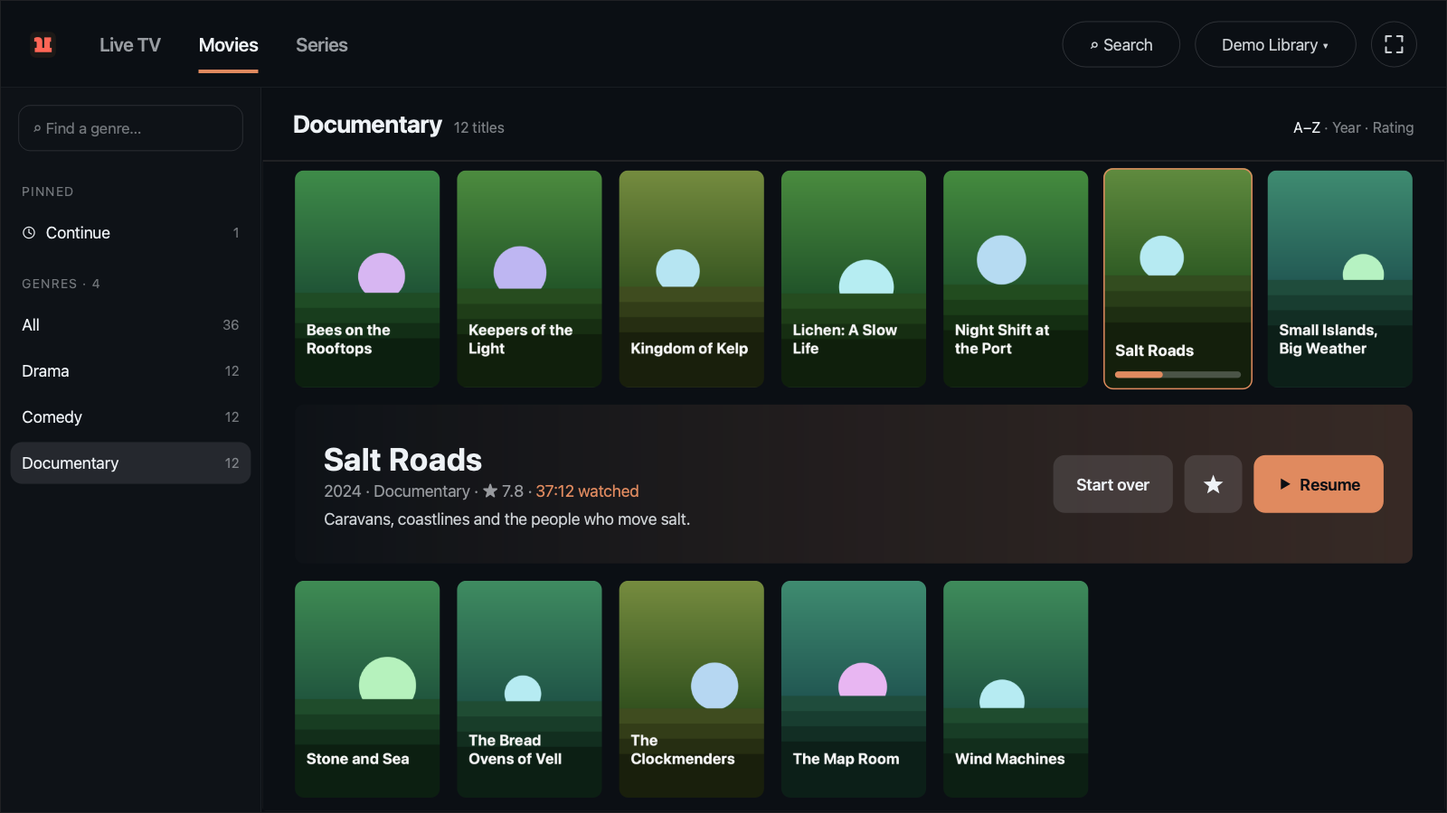
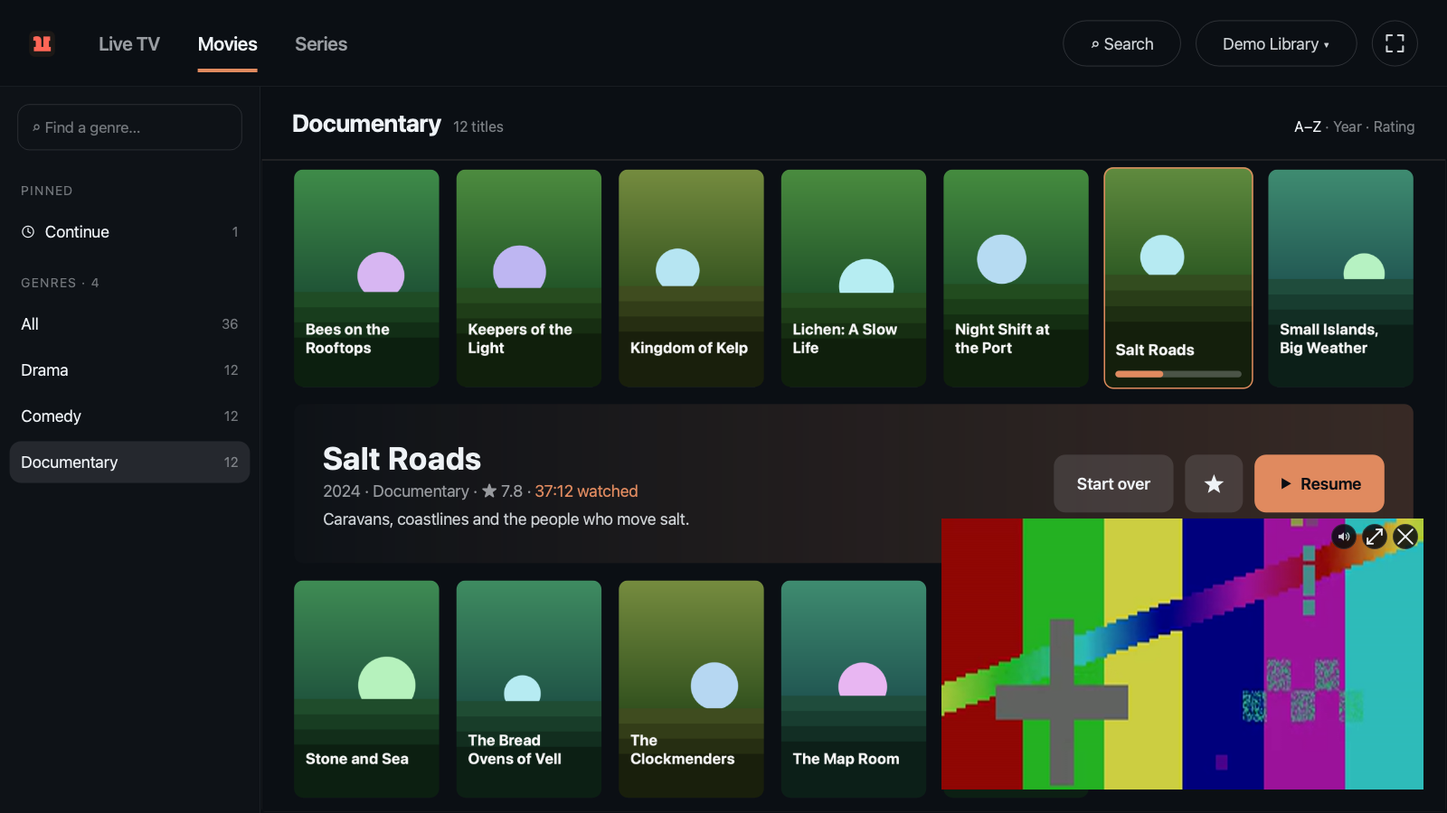
release: 2.1.0 (mixed providers, uninterrupted playback)
Version 2.1.0 in pyproject.toml and uv.lock (compare_versions offers it to
2.0.x). Release notes in docs/release-notes-2.1.0.md, with a placeholder
under New for the stay-live stages still to come. The README gains
"Several providers" and "Keep watching while you browse", the Library's
provider button, search hits from their own provider and stars per
provider; the key tables are unchanged.

The demo screenshots draw the video wherever the player page shows (the
corner player came out grey) and stop the corner player before the series
shot; only 05-library.png is re-taken, with the channel playing on in the
corner.

Claude-Session: https://claude.ai/code/session_012D1XAnsEcFSz5v4Ht19Zvk

diff --git a/scripts/make_demo_content.py b/scripts/make_demo_content.py
@@ -1082,7 +1082,8 @@ class Shooter:
 
     def capture(self, name: str) -> None:
         """The window's grab, each player's decoded picture where it shows, and the overlay
-        host's grab over them (as scripts/smoke_tv.py composes its screenshots)."""
+        host's grab over them (as scripts/smoke_tv.py composes its screenshots). The player
+        page shows full size, or in the Library's corner while what plays goes on there."""
         from PySide6.QtCore import QPoint, QRectF
         from PySide6.QtGui import QImage, QPainter
 
@@ -1094,7 +1095,7 @@ class Shooter:
         painter = QPainter(image)
         painter.setRenderHint(QPainter.RenderHint.SmoothPixmapTransform)
         painter.drawPixmap(0, 0, pixmap)
-        if not w.screens.library_shown():
+        if w.player_page.isVisible():
             for frame, target in self._video_layers():
                 painter.drawImage(QRectF(target), frame)
             host = w.host
@@ -1283,7 +1284,8 @@ class Shooter:
         self._key(K.Key_P)  # closes the small picture
         yield 1000
 
-        # 5. The Library on the demo library: a genre, the half-watched film's details.
+        # 5. The Library on the demo library: a genre, the half-watched film's details, and the
+        # channel playing on in the corner.
         w.controller.select_provider(LIBRARY_PROVIDER)
         yield from self._wait(
             lambda: w.catalog.current_provider_name() == LIBRARY_PROVIDER
@@ -1300,7 +1302,10 @@ class Shooter:
         yield SETTLE_MS
         yield from self._shoot(SHOT_LIBRARY)
 
-        # 6. The series, on its half-watched episode.
+        # 6. The series, on its half-watched episode, with the corner player stopped (×): it
+        # would cover the episodes' ✓ and Start over.
+        w.screens.stop_corner()
+        yield 500
         w.screens.open_library("series")
         yield from self._wait(lambda: bool(self._grid_items()), LOAD_TIMEOUT_MS, "the series")
         yield from self._pick_genre("21")

diff --git a/README.md b/README.md
@@ -4,7 +4,7 @@
 
 QiTV is a free TV player for IPTV. It plays M3U playlists (lists of channel links), Xtream accounts (a server address with a username and password) and STB portals (a set-top-box portal address and a MAC address), on Windows, macOS and Linux.
 
-Version 2.0 works like a TV: the channel fills the window, ↑ and ↓ change channels, and everything else (the channel list, the guide, the player controls) slides in over the picture and gets out of the way again. You can pause and rewind live TV, watch two channels at once, and browse movies and series in a Library with posters. It is written in Python with Qt and plays everything with VLC.
+Version 2.0 works like a TV: the channel fills the window, ↑ and ↓ change channels, and everything else (the channel list, the guide, the player controls) slides in over the picture and gets out of the way again. You can pause and rewind live TV, watch two channels at once, and browse movies and series in a Library with posters. Since 2.1, several providers mix in one channel list, one Library and one history, and what plays keeps playing in a corner while you browse. It is written in Python with Qt and plays everything with VLC.
 
 ![A live channel with the channel banner](docs/screenshots/01-live-banner.png)
 
@@ -48,7 +48,7 @@ This installs a desktop entry and icon so QiTV appears in your application menu.
 On a first start QiTV opens with a [publicly available playlist](https://github.com/iptv-org/iptv) of free channels from around the world, so you can try it straight away. To add your own provider:
 
 1. Press <kbd>Enter</kbd> (or click the picture) to open the channel list.
-2. Press <kbd>←</kbd> until you reach the left-most column, the list of your sources (or click your provider's name at the top of the list). At its bottom are **⚙ Settings**, **＋ Add provider**, **＋ Free channels…** (iptv-org's free playlist again, for all countries or one country) and **Open file** (a video file on your computer, as <kbd>Ctrl/⌘+O</kbd>).
+2. Press <kbd>←</kbd> until you reach the left-most column, the list of your sources (or click your provider's name at the top of the list). With two or more providers, **All providers** is at its top. At its bottom are **⚙ Settings**, **＋ Add provider**, **＋ Free channels…** (iptv-org's free playlist again, for all countries or one country) and **Open file** (a video file on your computer, as <kbd>Ctrl/⌘+O</kbd>).
 3. Choose **＋ Add provider**. Settings opens on the Providers tab with a new provider to fill in:
    - **M3U Playlist:** the playlist's web address, or **Load File** for a playlist on your computer;
    - **M3U Stream:** the address of a single stream;
@@ -56,9 +56,22 @@ On a first start QiTV opens with a [publicly available playlist](https://github.
    - **STB:** the portal address and your MAC address (serial number and device ID only if your provider asks for them).
 4. Press **Verify Provider** to check the details, then **Save**. QiTV loads the channels, and the Library loads the provider's movies and series.
 
-If you delete every provider, including the free playlist, QiTV shows a welcome card whose **Add provider** button does the same; its **Free channels…** button adds iptv-org's free list again, for all countries or one country. Settings is one click away too: the **⚙** at the right end of the channel list's top row (beside it, **↻** loads your provider's channels and guide again, also <kbd>Ctrl/⌘+R</kbd>, and **⌕** searches), or the menu bar (<kbd>Ctrl/⌘+,</kbd>). The same row starts with **‹**, which goes back a level like <kbd>←</kbd>, and the names of where you are: click one to go there. To switch between providers, click your provider's name in that row and pick another in the sources column, or use the **Providers** menu.
+If you delete every provider, including the free playlist, QiTV shows a welcome card whose **Add provider** button does the same; its **Free channels…** button adds iptv-org's free list again, for all countries or one country. Settings is one click away too: the **⚙** at the right end of the channel list's top row (beside it, **↻** loads your provider's channels and guide again, also <kbd>Ctrl/⌘+R</kbd>, and **⌕** searches), or the menu bar (<kbd>Ctrl/⌘+,</kbd>). The same row starts with **‹**, which goes back a level like <kbd>←</kbd>, and the names of where you are: click one to go there. To browse another provider, click your provider's name in that row and pick another in the sources column, or use the **Providers** menu. This only changes what the list shows: what plays keeps playing (see [Several providers](#several-providers)).
 
-QiTV keeps each provider's lists for six hours and refreshes them in the background, so they open at once. If your provider allows only one or two streams at a time, QiTV never opens more: set **Max simultaneous streams** in the provider's settings when QiTV cannot read the limit from the provider.
+QiTV keeps each provider's lists for six hours and refreshes them in the background, so they open at once. If your provider allows only one or two streams at a time, QiTV never opens more: set **Max simultaneous streams** in the provider's settings when QiTV cannot read the limit from the provider. The limit counts per provider.
+
+## Several providers
+
+With two or more providers, QiTV mixes them: every channel, film and series knows the provider it came from and always plays from there, whichever list you found it in.
+
+- **All providers.** The sources column (the channel list's left-most column) starts with **All providers**. It shows ★ Favorites, ⟲ Recent and All with every provider's channels together, each with its provider's name beside it, and then each provider's own groups under its name, named as that provider names them. Groups are never merged, even when two providers use the same name. Typed channel numbers find the first match, in the order of your providers in Settings.
+- **Browsing is only browsing.** Picking another provider, or All providers, only changes what the list shows: nothing that plays stops, picture-in-picture stays open, and <kbd>↑</kbd>/<kbd>↓</kbd> keep going through the list the channel was picked from. <kbd>Enter</kbd> (or a click on the picture) opens the list where the big picture's channel was picked: its provider, its group, its row.
+- **Two providers at once.** Watch a channel from one account and open one from another in picture-in-picture; swap them and change channels on either. Each provider's stream limit counts on its own, so two accounts that each allow one stream can each play one picture.
+- **One history.** ⟲ Recent lists the channels you watched at every provider, newest first, each with its provider's name. <kbd>Backspace</kbd> (the channel before) goes back across providers too, and **Start with the last channel** (Settings) tunes the last channel from its own provider.
+- **The guide** of a provider is loaded while its channels are on screen or playing, and let go afterwards, so All providers doesn't download every guide at once.
+- **One account's trouble stays with it.** A provider that can't sign in or refresh keeps its saved lists, and the other providers keep working.
+
+The channel list and the Library each remember the provider (or All providers) you browsed last, also after a restart. With a single provider there is no All providers row, and everything works as before.
 
 ## Watching TV
 
@@ -179,12 +192,12 @@ QiTV gently speeds playback up or down to stay there, only when the distance has
 Watch a second channel in a small picture in the bottom-right corner:
 
 - <kbd>P</kbd> (or the player controls' second-channel button) opens the channel you watched before, small; press <kbd>P</kbd> again to close it;
-- in the channel list, right-click a channel and choose **Open in picture-in-picture**, or highlight it and press <kbd>Ctrl/⌘+P</kbd>;
+- in the channel list, right-click a channel and choose **Open in picture-in-picture**, or highlight it and press <kbd>Ctrl/⌘+P</kbd>; the channel can come from any of your providers;
 - click the small picture or its **⇄**, or press <kbd>S</kbd>, to swap the two: the small one becomes big;
 - the sound follows the big picture. The speaker on the small picture turns its sound on or off. <kbd>+</kbd> and <kbd>-</kbd> (or the speaker in the player controls, beside ♪) show the mixer, which sets each picture's volume (<kbd>Tab</kbd> moves to the other row) and hides after a few seconds; without picture-in-picture it shows only the main volume;
 - the **×** on the small picture closes it.
 
-Picture-in-picture is for live TV, and it needs a provider that allows two streams at a time.
+Picture-in-picture is for live TV, and it needs two streams: a provider that allows two at a time, or one stream each from two providers. A film or an episode from the Library is the one exception: it takes the big picture and keeps the channel you were watching small (see [Keep watching while you browse](#keep-watching-while-you-browse)).
 
 ![Picture-in-picture with the volume mixer](docs/screenshots/08-pip.png)
 
@@ -198,22 +211,35 @@ The guide comes from your provider (STB and Xtream), or from a guide file or web
 
 ## The Library: movies and series
 
-<kbd>Ctrl/⌘+2</kbd> opens Movies and <kbd>Ctrl/⌘+3</kbd> Series (also from the channel list's sections). Opening the Library stops live TV; **Live TV** (or <kbd>Ctrl/⌘+1</kbd>) takes you back to the last channel. While a movie or an episode from the Library plays, **‹ Library** in the player controls (or <kbd>Esc</kbd>) takes you back to where you were in the Library. The **⛶** at the right end of its top bar switches fullscreen.
+<kbd>Ctrl/⌘+2</kbd> opens Movies and <kbd>Ctrl/⌘+3</kbd> Series (also from the channel list's sections). What you were watching keeps playing in a corner (see below); with nothing playing, **Live TV** (or <kbd>Ctrl/⌘+1</kbd>) takes you back to the last channel. While a movie or an episode from the Library plays, **‹ Library** in the player controls (or <kbd>Esc</kbd>) takes you back to where you were in the Library. The **⛶** at the right end of its top bar switches fullscreen.
 
 - **Genres** are on the left. Above them: **Continue** (what you started watching), **New** (the most recently added titles, when your provider says when it added them) and **My list** (titles you saved with ★ or <kbd>Ctrl/⌘+D</kbd>).
 - **Posters** fill the rest. The highlighted one opens a strip with its year, genre, rating and story, and **Resume**, **Start over** and ★.
 - **Sort** by recently added, A–Z, year or rating. In a long genre, type a letter (or use the A–Z letters on the right edge) to jump there.
-- **Search** (<kbd>Ctrl/⌘+F</kbd> or <kbd>/</kbd>) finds channels, movies and series in the lists QiTV has loaded from all your providers.
+- **Providers:** the button with your provider's name at the top right picks whose films and series the Library shows, or, with two or more providers, **All providers**: each provider's genres under its name, and Continue, New and My list mixing every provider (the strip then names a title's provider). This only changes what the Library shows, not the channel list or what plays.
+- **Search** (<kbd>Ctrl/⌘+F</kbd> or <kbd>/</kbd>) finds channels, movies and series in the lists QiTV has loaded from all your providers. A hit plays from its own provider, without switching provider first.
 
-![The Library: a genre's posters and a film's details](docs/screenshots/05-library.png)
+![The Library: a genre's posters and a film's details, with the channel playing on in the corner](docs/screenshots/05-library.png)
 
 A series opens on its seasons and episodes. Episodes you finished have a ✓, and started ones a progress bar with **Start over**. When an episode ends, the next one starts after a 10-second countdown, also across seasons (Settings → Auto-play).
 
 ![A series with its seasons and episodes](docs/screenshots/06-series.png)
 
+### Keep watching while you browse
+
+Opening the Library or the search (**⌕**, <kbd>Ctrl/⌘+F</kbd>) doesn't stop what plays. The TV shrinks into a corner of the Library, a third of the window wide, with picture-in-picture inside it when it is open, and goes on playing with its sound:
+
+- its buttons are at its top right: the speaker mutes it or turns the sound back on, **⤢** gives it the whole window back, and **×** stops it (the Library stays);
+- drag it to another corner if it is in the way; QiTV remembers the corner;
+- a click on it, **⤢**, **Live TV** (<kbd>Ctrl/⌘+1</kbd>) or <kbd>Esc</kbd> from the genres brings the TV back exactly as it was: nothing restarts, and rewound live TV is still where you left it;
+- a film or an episode you play takes the big picture and keeps the channel you were watching in the small one (a small picture that was already open closes: QiTV has two players). If the film's provider has no stream to spare, QiTV closes the small picture from that provider and tells you;
+- a channel you pick in the search plays in the big picture; the small one stays.
+
 ## Favorites
 
-Press <kbd>Ctrl/⌘+D</kbd> on a channel, right-click it in the channel list, or click the **★** beside its name in the player controls, to add it to or remove it from **★ Favorites** at the top of the channel list. In the Library, <kbd>Ctrl/⌘+D</kbd> and ★ do the same for **My list**. Favorites are kept by name, as in QiTV 1.13: two items with the same name share one star.
+Press <kbd>Ctrl/⌘+D</kbd> on a channel, right-click it in the channel list, or click the **★** beside its name in the player controls, to add it to or remove it from **★ Favorites** at the top of the channel list. In the Library, <kbd>Ctrl/⌘+D</kbd> and ★ do the same for **My list**.
+
+A star belongs to one provider and is kept by name: starring a channel called "News" at one provider doesn't star a "News" at another, while within one provider two items with the same name share one star. A provider's ★ Favorites and My list show its own stars; All providers shows every provider's, each with its provider's name. Stars from QiTV 2.0 and earlier stay on every provider that has something of that name; un-star one at one provider and the others keep theirs.
 
 ## Exporting to M3U
 

diff --git a/AGENTS.md b/AGENTS.md
@@ -24,11 +24,11 @@ Style & Tooling
 Current Work Plan (Living TODO)
 - QiTV 2.0: a TV shell on VLC (branch `tv/vlc`, spec `docs/superpowers/specs/2026-10-15-tv-on-vlc-design.md`, a plan per phase in `docs/superpowers/plans/`). No native builds: VLC's official build ships inside the app; the live pipeline is pure Python. The modules by group:
   - Entry: `main.py` (frozen helper guard, the bundled libVLC via `services/vlc_bundle.py`, `--smoke`).
-  - Window: `ui/tv_window.py` (one window: the player page with two native video surfaces, the Library page), `ui/tv_pages.py` (moves between pages), `ui/tv_menus.py`, `ui/pip.py` (PiP frame), `ui/settings_dialog.py`, `ui/update_dialogs.py`.
-  - Overlays: `ui/overlay_host.py` (translucent host glued over the video) and `ui/overlays/` (zap banner, fast-zap column, drawer, transport, guide, toast, next card, welcome card, PiP label, mixer); tokens in `ui/theme.py`, painting helpers in `ui/overlays/painting.py`.
+  - Window: `ui/tv_window.py` (one window: the player page with two native video surfaces, the Library page), `ui/page_stack.py` (the two pages: player, Library, or the Library with the player in its corner), `ui/tv_pages.py` (moves between pages), `ui/tv_menus.py`, `ui/pip.py` (PiP frame), `ui/settings_dialog.py`, `ui/update_dialogs.py`.
+  - Overlays: `ui/overlay_host.py` (translucent host glued over the video) and `ui/overlays/` (zap banner, fast-zap column, drawer, transport, guide, toast, next card, welcome card, PiP label, mixer, `corner_controls.py`: the corner player's sound, ⤢ and ×); tokens in `ui/theme.py`, painting helpers in `ui/overlays/painting.py`.
   - Behaviour: `ui/tv_controller.py` with `ui/link_lanes.py`, `ui/live_tuner.py`, `ui/live_controls.py`, `ui/pip_controls.py`, `ui/mixer_controls.py`, `ui/guide_controller.py`, `ui/context_actions.py`, `ui/autoplay.py`, `ui/provider_flow.py`, `ui/bottom_band.py`, `ui/export_flow.py`; keys in `ui/keymap.py` (`SHORTCUTS` feeds Help and the README).
   - Library: `ui/library_controller.py` and `ui/library/` (top nav, genre list, poster grid with detail strip, series view, search session).
-  - Catalog and data: `services/catalog.py`, `provider_manager.py`, `provider_api.py`, `workers.py`, `content_loader.py`, `m3u.py`, `epg_*.py`, `navigation.py`, `zapping.py`, `library.py`, `search.py`, `favorites.py`, `watch_state.py`, `next_episode.py`, `exporter.py`, `config_manager.py`, `jobs.py`, `thread_cleanup.py`.
+  - Catalog and data: `services/catalog.py` (one provider's catalog), `catalogs.py` (one catalog per provider; routes links and guides by an item's provider), `browsed_catalog.py` (a page's view: one provider or All providers), `provider_ids.py` (the provider stamp on every item, `ALL_PROVIDERS`, mixed group ids), `provider_manager.py`, `provider_api.py`, `workers.py`, `content_loader.py`, `m3u.py`, `epg_*.py`, `navigation.py`, `zapping.py`, `library.py`, `search.py`, `favorites.py`, `watch_state.py`, `next_episode.py`, `exporter.py`, `config_manager.py`, `jobs.py`, `thread_cleanup.py`.
   - Playback: `services/playback.py` (one libVLC player), `vlc_profile.py`, `sessions.py` (the two slots), `connection_budget.py` and `budgeted_stream.py` (provider stream limits), `external_players.py`.
   - Time-shift: `services/live/` (helper process: source, TS segmenter, RAM/disk rings, loopback server, timeline, stay-live, engine and live session).
   - Scripts: `scripts/smoke_tv.py` (CI playback smoke), `scripts/make_demo_content.py` (demo content and the README screenshots), `scripts/readme_keys.py` (the README's key tables), `scripts/install-linux.sh`.
@@ -89,6 +89,7 @@ Next Steps (Paused)
 - Add unit tests for `services/m3u.py` and `services/export.py`
 
 Recent Changes (for context)
+- QiTV 2.1.0 docs and version (Task 16 of `docs/superpowers/plans/2026-10-17-qitv-2.1-mixed-providers.md`, `tv/vlc`): version 2.1.0 in `pyproject.toml` and `uv.lock` (`compare_versions` offers 2.1.0 to 2.0.x). Release notes in `docs/release-notes-2.1.0.md` (mixed providers, the corner player, speed at 200,000+ channels, stay-live stage 1), with a `<!-- stay-live stages 2+ -->` placeholder under New for what else ships. The README gained "Several providers" (All providers in the sources column, browsing that stops nothing, the list opening at the big picture's channel, two providers in PiP, one history, guides per provider, a failing provider keeping its lists) and "Keep watching while you browse" (the corner player; a film takes the big picture and keeps the channel small), plus the Library's provider button with All providers, search hits playing from their own provider and stars per provider; the key tables are unchanged (`SHORTCUTS`). `scripts/make_demo_content.py` now draws the video wherever the player page shows (it drew it only while the Library was hidden, so the corner player came out grey) and stops the corner player (×) before the series shot; only `docs/screenshots/05-library.png` was re-taken (the channel plays on in the corner), as the other shots show nothing 2.1 changed.
 - 2.1 stay-live stage 1 (`tv/vlc`, spec `docs/superpowers/specs/2026-10-17-stay-live-rework-design.md`): stay-live steers only real drift, gently. `LagFilter` (`services/live/stay_live.py`) averages the closed-form mean lag over a dozen bursts of the live edge's history (10-90 s), so a public HLS channel's uneven batches (6 s, every sixth 12 s, every 7 s) no longer move it; the position is never averaged; an arrival that moves the level > max(3 s, a burst) or a stall's end restarts the window (a step taken in once); its burst has hysteresis (a larger one counts after max(10 s, two bursts), a smaller after 30 s, changes < 0.5 s ignored) for the target stay-live steers by, while the timeline's target, the stall bound and Go live still follow the helper's burst at once. `StayLive` keeps 1x inside a dead band of max(1 s, 1.5 × the filter's spread) (+ a quarter burst behind), and only after 15 s outside it makes one nudge (1.03x/0.97x, ramped 0.01 a tick, sized to end at the target), at most one per 5 minutes (else the band widens); far behind (> 8 s) 1.10x and less than 0.5 s of room at a landing 0.95x act after 3 s beyond the budget. The timeline carries `shown` (`SettledLag`: half seconds, changed after 3 s) and `nudge`; the indicator reads "≈ 7 s behind", amber whenever the rate isn't 1x. Review round: a nudge ramps in three steps a second apart (six libVLC rate changes per nudge); trouble that ran out the cushion (`StayLive.trouble()`, from `_back_off`, any latency) is owed one 0.95x slow-down to the (raised) target as soon as VLC plays, beyond the budget, if the lag is then short of it (2.0.2's at-once build; the 2.0.2 back-off test values are back; a catch-up far behind goes on through stalls, and a cut nudge spends no budget), and VLC's waits only pause an urgent count; the reopen at live waits until an opened stream has played and 5 s passed (`_REOPEN_HOLD_S`; one provider's backlog right after Go live made two opens 1.2 s apart) and the Go live button (or a seek to the edge) right after stay-live's reopen opens nothing more; a direct play after a fallback from an open buffer that fails at once is tried again up to three times, 3, 5 and 10 s apart, with "Reconnecting…" (`retry_ms`, ruling R19: a one-stream provider still counted the buffer's connection; pre-existing path), and once it played an error is reported at once. Stages 2-5 (honest clock, start policy, learned target, safe jumps) are still to come.
 - 2.1 scale (`tv/vlc`): `scripts/bench_mixed.py` builds 4 providers' caches (213,998 live channels, 40,000 films) and times the drawer, the Library and Search on "All providers" (offscreen, muted; `--trace`, `--profile STEP` and `--sample` show where the time goes). A group of 2,000+ channels is a `NodeSeq` (`services/navigation.py`): its nodes are made on demand and the models take the channel dicts as they are; row views lay out in batches; Search reads the content the catalogs hold (`Catalogs.loaded_contents()`) instead of parsing the cache files again; `main.py` sets a 0.5 ms thread switch interval and the loaded catalogs are `gc.freeze()`n out of the collector.
 - 2.0.8 (`tv/vlc`): the speed chip is `− 1.25x +` (`SPEEDS` 0.5–2×, stopping at the ends; the number goes back to 1x) and, like Go live and ‹ Library, as wide and tall as its text (`Transport._chip_h`; the font stops at `MIN_FONT_PX` while u shrinks with the window, so "1.25x" was cut off); where − and + don't fit (a 300-px mini player, shifted, with Go live) the number shows alone.

diff --git a/docs/release-notes-2.1.0.md b/docs/release-notes-2.1.0.md
@@ -1,0 +1,94 @@
+# QiTV 2.1.0
+
+QiTV 2.1 puts all your providers in one place. Channels, films and series from every account
+share one channel list, one Library and one history, each one plays from its own provider, and
+what you watch keeps playing while you browse, search or pick a film.
+
+**Please always download QiTV from [Releases](https://github.com/ozankaraali/QiTV/releases)
+instead of using others' distributions, which may have malware.**
+
+## New
+
+- **All providers.** With two or more providers, the channel list's sources column starts with
+  **All providers**. It shows ★ Favorites, ⟲ Recent and All with every provider's channels
+  together, each with its provider's name beside it, and then each provider's own groups under
+  its name, named as that provider names them. The Library has the same choice behind its
+  provider button at the top right: one provider's films and series, or all of them, with each
+  provider's genres under its name and Continue, New and My list mixing them.
+- **Every stream from its own provider.** A channel, film or episode always plays from the
+  provider it came from, in the big picture and in picture-in-picture. Watch a channel from one
+  account, open a channel from another account in picture-in-picture, swap them and change
+  channels on either. Stream limits count per provider: two accounts that each allow one stream
+  can each play one picture.
+- **Browsing is only browsing.** Picking another provider, or All providers, in the channel list
+  or the Library only changes what that list shows. Nothing that plays stops, picture-in-picture
+  stays open, and ↑/↓ keep going through the list the channel was picked from.
+- **The channel list opens at what you watch.** Enter or a click on the picture opens the list
+  where the big picture's channel was picked: its provider (or All providers), its group, its
+  row. After a swap, that is the new big picture's channel.
+- **One history.** ⟲ Recent in the channel list lists the channels you watched at every
+  provider, newest first, each with its provider's name. Backspace (the channel before) goes back
+  across providers too, and "Start with the last channel" tunes the last channel from its own
+  provider.
+- **Stars per provider.** A star now belongs to one provider: starring a channel called "News"
+  at one account doesn't star a "News" at another. A provider's ★ Favorites and My list show its
+  own stars; All providers shows them all.
+- **Search plays from every provider.** A search hit from another provider plays from its own
+  provider, without switching provider first.
+- **Keep watching while you browse.** Opening the Library or the search no longer stops what
+  plays: the TV shrinks into a corner of the Library, picture-in-picture and sound included, and
+  goes on playing. Its buttons mute it, give it the whole window back (⤢) or stop it (×); drag
+  it to another corner if it is in the way. A click on it, ⤢, **Live TV** or Esc from the genres
+  brings the TV back exactly as it was.
+- **A film keeps the channel small.** Playing a film or an episode from the Library puts it in
+  the big picture and keeps the channel you were watching in the small one. If the film's
+  provider has no stream to spare, QiTV closes the small picture from that provider and says so.
+- **Each provider's guide when you need it.** QiTV loads a provider's guide while its channels
+  are on screen or playing and lets it go afterwards, so All providers doesn't download every
+  guide at once.
+- **Quick with big accounts.** QiTV stays quick with four providers and over 200,000 channels
+  between them. On a test catalog of 214,000 channels and 40,000 films, the channel list opens
+  on All in about a tenth of a second, the Library's genres show in a quarter of a second, and
+  search shows its first results in about half a second. The lists come from each provider's
+  saved copy, never from the network while you browse.
+- **Steadier live TV.** Some HLS channels deliver their pieces unevenly, and QiTV used to answer
+  that by speeding up and slowing down every few seconds. Now it looks at about a minute of the
+  stream before it acts and keeps normal speed while the channel plays about where it should.
+  Only when it has really drifted for a while does QiTV change the speed, by a few percent, eased
+  in and out in three gentle steps, at most about once every 5 minutes. Far behind, it still
+  catches up faster, and after the stream runs dry it slows down a little at once to build room
+  again.
+- **A calm distance display.** At the live edge the player controls read, for example,
+  "≈ 7 s behind", in half seconds, and change only once the distance has stayed different for a
+  few seconds. The dot beside it is amber whenever the speed isn't normal: "catching up" while
+  QiTV plays faster, "adding buffer" while it plays slower.
+<!-- stay-live stages 2+ -->
+
+## Fixes
+
+- **Live TV comes back after a lost buffer.** When the time-shift buffer was lost and QiTV
+  switched to playing the channel directly, a provider that allows one stream could still count
+  the old connection for a few seconds and refuse the new one, which left the picture black.
+  QiTV now tries again up to three times (after 3, 5 and 10 seconds), showing "Reconnecting…",
+  before it reports an error.
+
+## Good to know
+
+- **With one provider, nothing changes.** All providers appears once you have two or more
+  providers. With one, the lists, channel numbers, stars, the guide and Recent work as in 2.0.
+- **Your stars come along.** A star from 2.0 stays on every provider that has a channel, film or
+  series of that name; un-star it at one provider and the others keep theirs. Within one
+  provider, items with the same name still share one star. If you go back to 2.0, it still finds
+  your stars by name.
+- **Channel numbers in mixed lists.** In All providers, and in ⟲ Recent with several
+  providers, two providers can use the same number. Typing it tunes the first one, in
+  the order of your providers in Settings.
+- **Groups are never merged.** Each provider keeps its own groups and genres, even when two use
+  the same name, and a channel that two providers carry is listed for each.
+- **One account's trouble stays with it.** A provider that can't sign in or refresh keeps its
+  saved lists, and the other providers keep working.
+- **Each list remembers where you were.** The channel list and the Library each remember the
+  provider (or All providers) you browsed last, also after a restart.
+- See the [2.0.8 notes](https://github.com/ozankaraali/QiTV/blob/main/docs/release-notes-2.0.8.md)
+  and the [2.0.0 notes](https://github.com/ozankaraali/QiTV/blob/main/docs/release-notes-2.0.0.md)
+  for everything new in 2.0.
